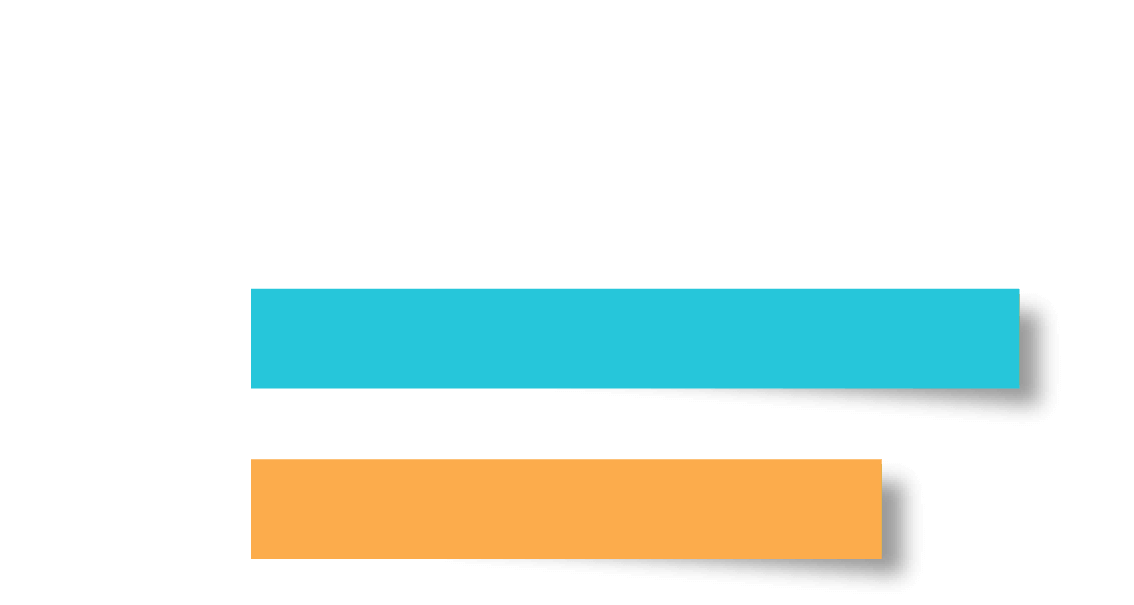
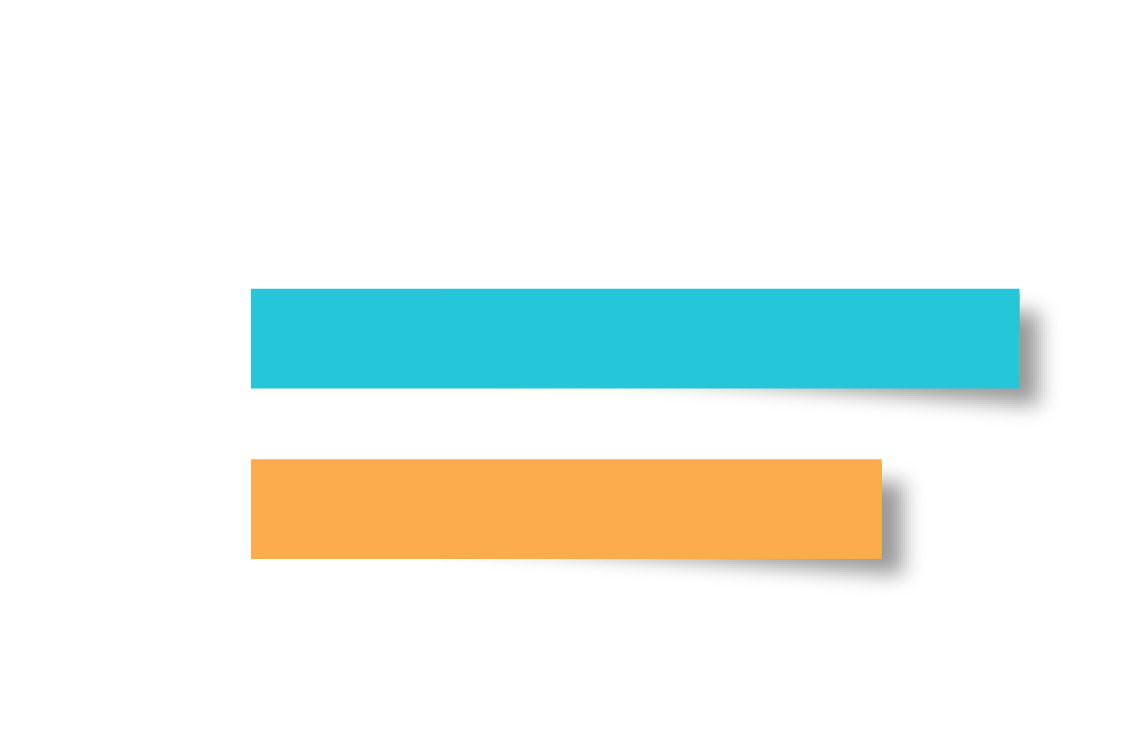
updated

diff --git a/sass/redesign-startup-culture.scss b/sass/redesign-startup-culture.scss
@@ -486,17 +486,25 @@ body{
 		}
 		.hero{
 			background-image: url(https://www.tinypulse.com/hubfs/redesign_2016/startup-culture-report/block-5-hero.png);
-			background-size: 600px auto;
+			background-size: 750px auto;
 			background-position: right bottom;
-			max-width: 1100px;
+			max-width: 1220px;
 		}
 		p{
 			max-width: 600px;
 			img{
-				width: 500px;
+				width: 450px;
 				max-width: inherit;
-				margin-left: 40px;
-				margin-top: 40px;
+				margin-top: 100px;
+			}
+		}
+	}
+	.block-6{
+		p{
+			img{
+				max-width: inherit;
+				width: 550px;
+				margin-bottom: 200px;
 			}
 		}
 	}
@@ -520,7 +528,8 @@ body{
 		p{
 			max-width: 600px;
 			img{
-				margin-left: 40px;
+				margin-left: 0;
+				margin-top: 60px;
 				float: none;
 			}
 		}
